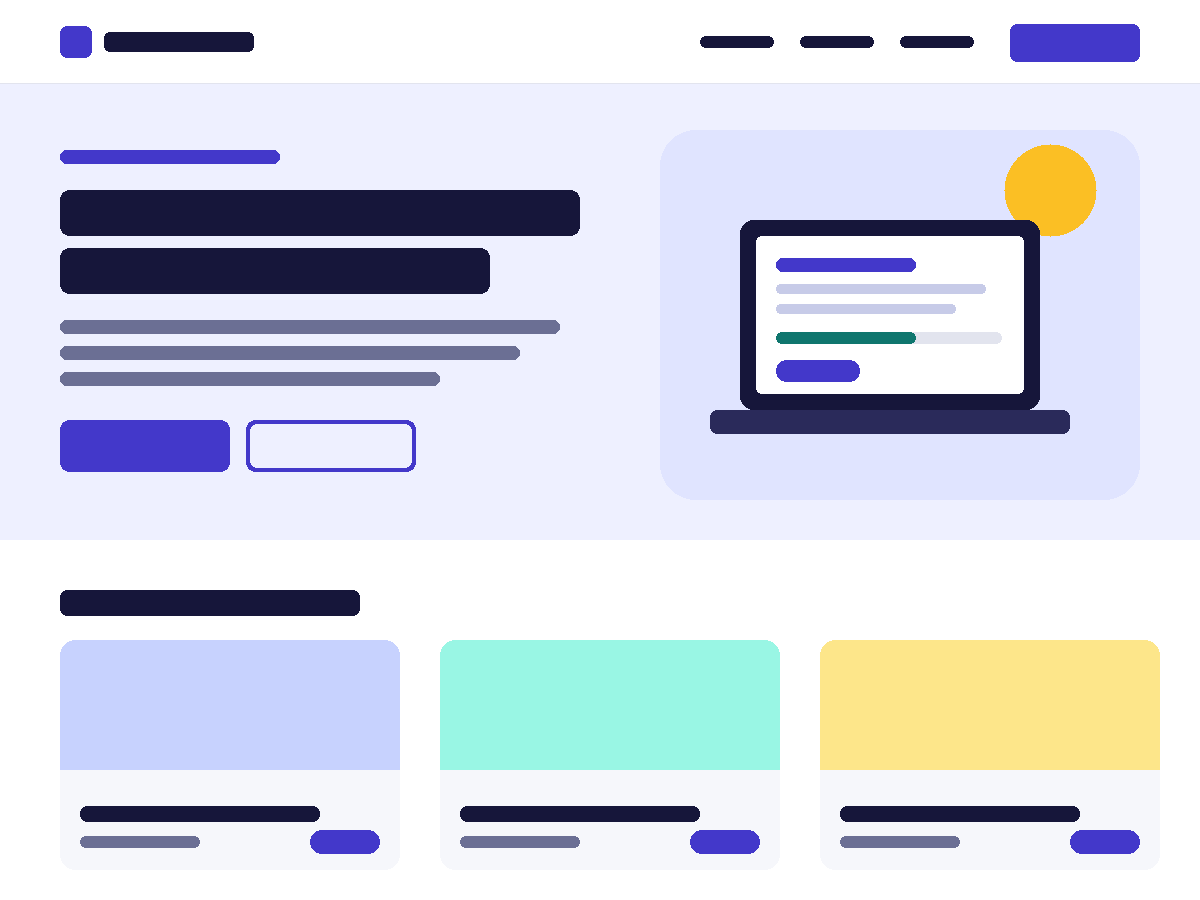
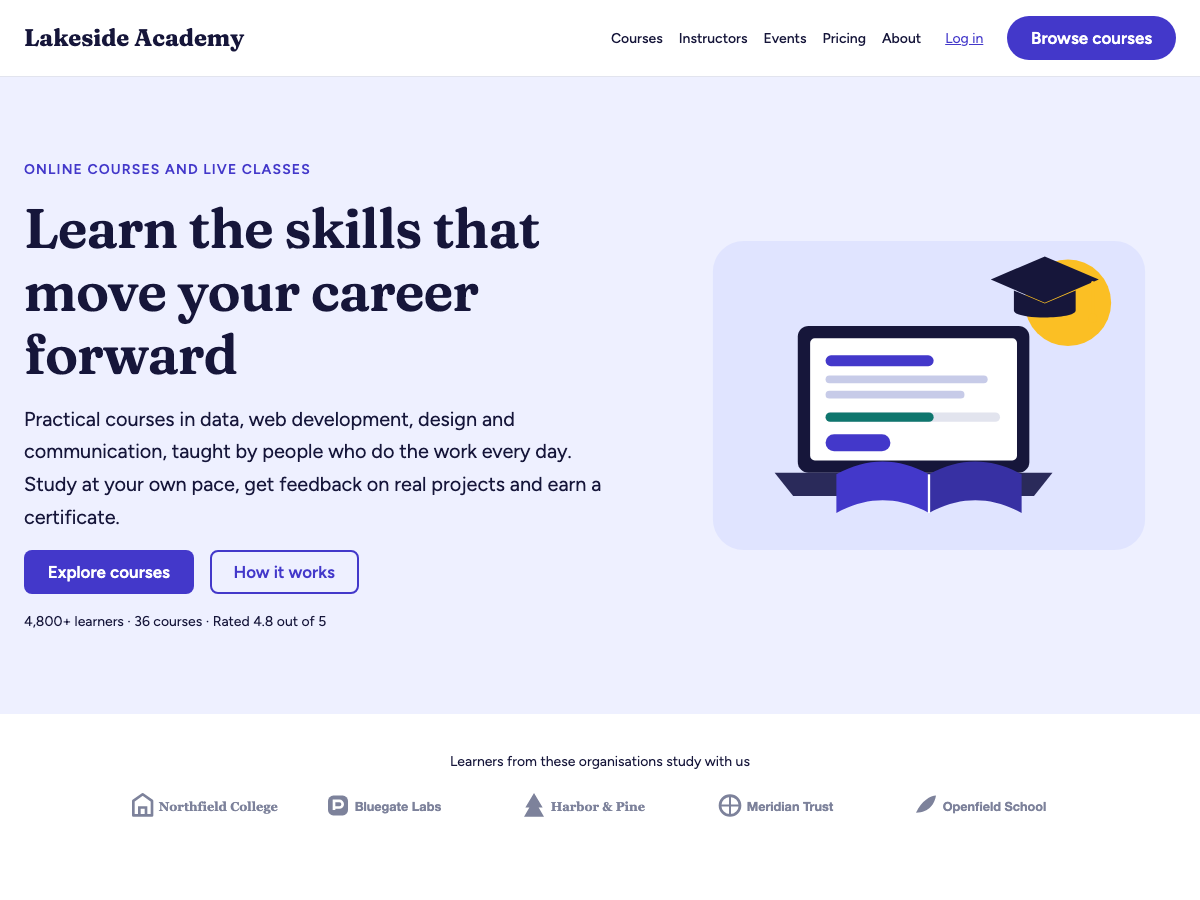
feat(a11y): make the theme accessibility-ready and directory-ready
Add assets/css/global.css (inlined, also loaded in the editor) with
focus outlines for form fields, summaries, menu toggles and the carousel,
and a prefers-reduced-motion rule; the theme itself has no motion. Add
the accessibility statement pattern, an Accessibility section in
readme.txt and the accessibility-ready tag. Course grid cards no longer
repeat a "View course" button on every card (ambiguous link text); the
title is the card link.

docs/REVIEW-CHECKLIST.md records the WordPress.org required and
accessibility-ready guidelines item by item, with the commands used:
Theme Check on the git-archive copy (no required, warning or
recommended results), PHPCS clean, 96/96 contrast pairs, all patterns,
templates and parts valid on 7.1.4, no PHP notices, and Lighthouse on the
academy home (mobile 99/100/100/92, desktop 100/100/100/92; the SEO point
is the meta description, which is plugin territory).

screenshot.png is now a 1200x900 render of the academy home page.
Version 0.2.0.

diff --git a/assets/css/global.css b/assets/css/global.css
@@ -1,0 +1,42 @@
+/**
+ * CampusInterface global stylesheet: accessibility rules theme.json cannot express.
+ *
+ * Links and buttons get their focus ring from theme.json (`:focus-visible` on the
+ * link and button elements). This file covers everything else that can take
+ * keyboard focus, and records the theme's reduced-motion stance. Loaded on the
+ * front end and in the editor; small enough that WordPress inlines it.
+ */
+
+/* Visible focus on every interactive element theme.json does not reach. */
+:where(input, select, textarea, summary, [tabindex]:not([tabindex="-1"])):focus-visible,
+:where(.wp-block-navigation__responsive-container-open, .wp-block-navigation__responsive-container-close):focus-visible {
+	outline: 2px solid var(--wp--preset--color--primary);
+	outline-offset: 2px;
+}
+
+/* Scrollable regions (the course carousel) show where focus is too. */
+:where(.wp-block-post-template):focus-visible {
+	outline: 2px solid var(--wp--preset--color--primary);
+	outline-offset: 4px;
+}
+
+/* On dark and primary bands the ring takes the band's text colour. */
+:where(.is-style-campusinterface-band-dark, .is-style-campusinterface-band-primary) :where(input, select, textarea, summary, [tabindex]:not([tabindex="-1"])):focus-visible {
+	outline-color: currentcolor;
+}
+
+/*
+ * The theme ships no animations or transitions of its own. This rule makes sure
+ * nothing added later (core, plugins, user CSS) moves for people who ask the
+ * system for less motion.
+ */
+@media (prefers-reduced-motion: reduce) {
+	*,
+	*::before,
+	*::after {
+		animation-duration: 0.01ms !important;
+		animation-iteration-count: 1 !important;
+		scroll-behavior: auto !important;
+		transition-duration: 0.01ms !important;
+	}
+}

diff --git a/style.css b/style.css
@@ -4,14 +4,14 @@ Theme URI: https://wpinterface.com/themes/campusinterface/
 Author: WPInterface
 Author URI: https://wpinterface.com
 Description: CampusInterface is a full-site-editing block theme for schools, academies, online course creators and training companies. Everything is styled from theme.json: colour roles, fluid type with two bundled variable fonts, a spacing scale and responsive styles, with Campus, Studio, Kids, Corporate and Dark colour variations, Editorial, Modern and System type sets, and section styles for bands and cards. It pairs with the free Public LMS plugin, whose course, lesson and dashboard templates it styles, and works as a clean school website without it.
-Version: 0.1.0
+Version: 0.2.0
 Requires at least: 6.7
 Tested up to: 7.1
 Requires PHP: 7.4
 License: GNU General Public License v2 or later
 License URI: https://www.gnu.org/licenses/gpl-2.0.html
 Text Domain: campusinterface
-Tags: education, blog, one-column, wide-blocks, block-patterns, block-styles, custom-colors, custom-logo, custom-menu, editor-style, featured-images, full-site-editing, rtl-language-support, style-variations, template-editing, threaded-comments, translation-ready
+Tags: education, blog, accessibility-ready, one-column, wide-blocks, block-patterns, block-styles, custom-colors, custom-logo, custom-menu, editor-style, featured-images, full-site-editing, rtl-language-support, style-variations, template-editing, threaded-comments, translation-ready
 
 CampusInterface WordPress Theme, (C) 2026 WPInterface.
 CampusInterface is distributed under the terms of the GNU GPL v2 or later.

diff --git a/patterns/accessibility-statement.php b/patterns/accessibility-statement.php
@@ -1,0 +1,82 @@
+<?php
+/**
+ * Title: Accessibility statement
+ * Slug: campusinterface/accessibility-statement
+ * Categories: text, campusinterface-about
+ * Post Types: page
+ * Keywords: accessibility, statement, wcag, a11y, policy, legal
+ * Viewport Width: 1000
+ * Description: A starting point for an accessibility statement: commitment, standard, measures, known limitations, feedback and the date of the last review. Edit every section to match your own site before publishing.
+ *
+ * @package CampusInterface
+ * @since 0.2.0
+ */
+
+?>
+<!-- wp:heading -->
+<h2 class="wp-block-heading"><?php esc_html_e( 'Our commitment', 'campusinterface' ); ?></h2>
+<!-- /wp:heading -->
+
+<!-- wp:paragraph -->
+<p><?php esc_html_e( 'We want everyone to be able to learn with us, whatever device they use and however they read, hear, move or think. This statement covers this website and the courses on it.', 'campusinterface' ); ?></p>
+<!-- /wp:paragraph -->
+
+<!-- wp:heading -->
+<h2 class="wp-block-heading"><?php esc_html_e( 'The standard we aim for', 'campusinterface' ); ?></h2>
+<!-- /wp:heading -->
+
+<!-- wp:paragraph -->
+<p><?php esc_html_e( 'We aim to meet the Web Content Accessibility Guidelines (WCAG) 2.2 at level AA. We check new pages and courses against it before they go live.', 'campusinterface' ); ?></p>
+<!-- /wp:paragraph -->
+
+<!-- wp:heading -->
+<h2 class="wp-block-heading"><?php esc_html_e( 'What we do', 'campusinterface' ); ?></h2>
+<!-- /wp:heading -->
+
+<!-- wp:list -->
+<ul class="wp-block-list">
+	<!-- wp:list-item -->
+	<li><?php esc_html_e( 'Every page can be used with a keyboard alone, with a visible focus outline and a link to skip to the main content.', 'campusinterface' ); ?></li>
+	<!-- /wp:list-item -->
+
+	<!-- wp:list-item -->
+	<li><?php esc_html_e( 'Text and buttons meet the AA contrast ratio in every colour scheme we offer, including the dark scheme.', 'campusinterface' ); ?></li>
+	<!-- /wp:list-item -->
+
+	<!-- wp:list-item -->
+	<li><?php esc_html_e( 'Images that carry meaning have text alternatives, and form fields have visible labels.', 'campusinterface' ); ?></li>
+	<!-- /wp:list-item -->
+
+	<!-- wp:list-item -->
+	<li><?php esc_html_e( 'Text resizes to 200% without loss of content, and nothing on the site moves or animates on its own.', 'campusinterface' ); ?></li>
+	<!-- /wp:list-item -->
+
+	<!-- wp:list-item -->
+	<li><?php esc_html_e( 'Course videos have captions and transcripts.', 'campusinterface' ); ?></li>
+	<!-- /wp:list-item -->
+</ul>
+<!-- /wp:list -->
+
+<!-- wp:heading -->
+<h2 class="wp-block-heading"><?php esc_html_e( 'Known limitations', 'campusinterface' ); ?></h2>
+<!-- /wp:heading -->
+
+<!-- wp:paragraph -->
+<p><?php esc_html_e( 'Some older course downloads (PDF worksheets) are not yet fully tagged for screen readers. We are replacing them course by course; ask us for an accessible copy of any file in the meantime.', 'campusinterface' ); ?></p>
+<!-- /wp:paragraph -->
+
+<!-- wp:heading -->
+<h2 class="wp-block-heading"><?php esc_html_e( 'Tell us about a problem', 'campusinterface' ); ?></h2>
+<!-- /wp:heading -->
+
+<!-- wp:paragraph -->
+<p><?php esc_html_e( 'If something on this site does not work for you, tell us what page you were on and what happened. We reply within five working days and will provide the content another way while we fix it.', 'campusinterface' ); ?> <a href="<?php echo esc_url( home_url( '/contact/' ) ); ?>"><?php esc_html_e( 'Contact us about accessibility', 'campusinterface' ); ?></a></p>
+<!-- /wp:paragraph -->
+
+<!-- wp:heading -->
+<h2 class="wp-block-heading"><?php esc_html_e( 'About this statement', 'campusinterface' ); ?></h2>
+<!-- /wp:heading -->
+
+<!-- wp:paragraph -->
+<p><?php esc_html_e( 'This statement was last reviewed on [date]. Replace this sentence with the date of your own review.', 'campusinterface' ); ?></p>
+<!-- /wp:paragraph -->

diff --git a/patterns/course-grid.php b/patterns/course-grid.php
@@ -6,7 +6,7 @@
  * Block Types: core/query
  * Keywords: courses, catalogue, grid, lms, public lms
  * Viewport Width: 1400
- * Description: A heading, a link to the catalogue and a three-column grid of the latest Public LMS courses, as classic cards with level, lesson count, duration, price and an enrol button.
+ * Description: A heading, a link to the catalogue and a three-column grid of the latest Public LMS courses, as classic cards with level, lesson count, duration and price. The course title is the card's only link.
  *
  * @package CampusInterface
  * @since 0.1.0
@@ -62,21 +62,9 @@
 			</div>
 			<!-- /wp:group -->
 
-			<!-- wp:group {"layout":{"type":"flex","flexWrap":"wrap","justifyContent":"space-between"}} -->
-			<div class="wp-block-group">
-				<!-- wp:paragraph {"metadata":{"bindings":{"content":{"source":"publiclms/course-field","args":{"key":"price"}}}},"style":{"typography":{"fontWeight":"700"}},"fontSize":"lg"} -->
-				<p class="has-lg-font-size" style="font-weight:700"></p>
-				<!-- /wp:paragraph -->
-
-				<!-- wp:buttons -->
-				<div class="wp-block-buttons">
-					<!-- wp:button {"metadata":{"bindings":{"url":{"source":"publiclms/course-field","args":{"key":"enroll_url"}},"text":{"source":"publiclms/course-field","args":{"key":"enroll_label"}}}},"className":"is-style-outline"} -->
-					<div class="wp-block-button is-style-outline"><a class="wp-block-button__link wp-element-button"><?php esc_html_e( 'View course', 'campusinterface' ); ?></a></div>
-					<!-- /wp:button -->
-				</div>
-				<!-- /wp:buttons -->
-			</div>
-			<!-- /wp:group -->
+			<!-- wp:paragraph {"metadata":{"bindings":{"content":{"source":"publiclms/course-field","args":{"key":"price"}}}},"style":{"typography":{"fontWeight":"700"}},"fontSize":"lg"} -->
+			<p class="has-lg-font-size" style="font-weight:700"></p>
+			<!-- /wp:paragraph -->
 		<!-- /wp:post-template -->
 
 		<!-- wp:query-no-results -->

diff --git a/functions.php b/functions.php
@@ -461,6 +461,37 @@ function campusinterface_hero_image_priority( $block_content, $block ) {
 add_filter( 'render_block_core/image', 'campusinterface_hero_image_priority', 10, 2 );
 
 /**
+ * Enqueues the global stylesheet: focus rings for form controls and the
+ * reduced-motion rule. Registered with its path so WordPress can inline it.
+ *
+ * @since 0.2.0
+ *
+ * @return void
+ */
+function campusinterface_global_styles() {
+	wp_enqueue_style(
+		'campusinterface-global',
+		get_theme_file_uri( 'assets/css/global.css' ),
+		array(),
+		wp_get_theme()->get( 'Version' )
+	);
+	wp_style_add_data( 'campusinterface-global', 'path', get_theme_file_path( 'assets/css/global.css' ) );
+}
+add_action( 'wp_enqueue_scripts', 'campusinterface_global_styles' );
+
+/**
+ * Loads the global stylesheet in the editor canvas too.
+ *
+ * @since 0.2.0
+ *
+ * @return void
+ */
+function campusinterface_editor_styles() {
+	add_editor_style( 'assets/css/global.css' );
+}
+add_action( 'after_setup_theme', 'campusinterface_editor_styles' );
+
+/**
  * Preloads the body font, the one weight above the fold on every page.
  *
  * @since 0.1.0

diff --git a/docs/REVIEW-CHECKLIST.md b/docs/REVIEW-CHECKLIST.md
@@ -1,0 +1,163 @@
+# WordPress.org theme review checklist
+
+Checked against the [required review guidelines](https://make.wordpress.org/themes/handbook/review/required/)
+and the [accessibility-ready guidelines](https://make.wordpress.org/themes/handbook/review/accessibility/required/)
+on 2026-11-04, for CampusInterface 0.2.0 (phase 1 gate), on the distributable copy that `git archive` builds
+(dev files are `export-ignore`d in `.gitattributes`).
+
+Legend: **Pass**, **N/A** (does not apply to this theme), **Owner** (needs a decision or account action by
+WPInterface before submission).
+
+## How it was checked
+
+| Check | Command | Result |
+|---|---|---|
+| Theme Check | `mkdir -p dist/campusinterface && git archive HEAD \| tar -x -C dist/campusinterface`, then wp-env with `"themes": [ "./dist/campusinterface" ]` in `.wp-env.override.json`, then `npx @wordpress/env@12 run cli wp theme-check run campusinterface` | No REQUIRED, WARNING or RECOMMENDED results; two INFO notes (accessibility-ready tag triggers an accessibility review; one text domain, `campusinterface`) |
+| PHPCS (WordPress-Extra, WordPress-Docs, PHPCompatibilityWP 7.4+) | `composer lint` | Clean |
+| Palette contrast, six palettes × 16 pairs | `composer contrast` | 96 of 96 pass AA; lowest 4.63:1 (Kids, `success` on `surface`) |
+| Block validity | Editor on WordPress 7.1.4: `wp.blocks.parse()` over every theme pattern, template and part | 46 patterns, 16 templates, 10 parts: no invalid or missing blocks |
+| PHP notices | `WP_DEBUG` and `WP_DEBUG_LOG` on; front page, pages on each page template, single post, category, date and search archives, 404 | Nothing logged |
+| Lighthouse 12.8.2, academy home | `npx lighthouse@12 http://localhost:8930/academy-home/` (mobile) and `--preset=desktop` | Mobile: performance 99, accessibility 100, best practices 100, SEO 92. Desktop: 100, 100, 100, 92. The SEO point lost is "no meta description", which is SEO-plugin territory (guideline 6) |
+
+## 1. Licensing and copyright
+
+| Requirement | Status | Notes |
+|---|---|---|
+| GPL-compatible licence, GPLv2 or later recommended | Pass | `style.css` and `readme.txt`: GPLv2 or later |
+| All code, data and images GPL-compatible | Pass | Fonts are OFL 1.1; every image is an original SVG made for the theme, GPLv2 or later |
+| Copyright for the theme itself | Pass | `style.css` and `readme.txt` "Copyright" |
+| Licence, copyright and source for bundled resources, in one file | Pass | `readme.txt` "Resources": Fraunces, Figtree, and the list of all 30 SVGs and `screenshot.png` |
+| Original design, no clones | Pass | |
+| Front-end copyright shows only the user's copyright | Pass | Footers show the site title only; no theme credit or copyright line |
+
+## 2. Privacy
+
+| Requirement | Status | Notes |
+|---|---|---|
+| No tracking or data collection by default | Pass | None. Fonts and images are local; no remote requests (front page references only the site's own host) |
+| Document data use in readme | N/A | The theme collects nothing |
+
+## 3. Accessibility (required for every theme)
+
+| Requirement | Status | Notes |
+|---|---|---|
+| Skip link, first focusable, visible on focus, moves focus to main | Pass | WordPress adds it for block themes when a template has `<main>`; every template has exactly one `<main>` |
+| Visible focus on menus, form fields, submit buttons, text links | Pass | Links and buttons: `:focus-visible` in `theme.json`; fields, summaries, menu toggles and the carousel: `assets/css/global.css`; log-in fields: `assets/css/blocks/loginout.css`; Details summary: `assets/css/blocks/details.css` |
+| Everything reachable and operable by keyboard, on all screen sizes | Pass | Core navigation overlay (keyboard and touch), Details blocks, scroll-snap carousel (tab into each card link). No hover-only controls |
+
+## 4. Code
+
+| Requirement | Status | Notes |
+|---|---|---|
+| No PHP or JavaScript errors, warnings or notices | Pass | See "PHP notices" above. The theme ships no JavaScript |
+| Secure; sanitise input, escape output | Pass | No input handled. All pattern output escaped (`esc_html_e`, `esc_attr__`, `esc_url`); PHPCS `WordPress.Security` clean |
+| No deprecated functions | Pass | PHPCS and Theme Check |
+| Unique prefix (4+ letters) for everything public | Pass | `campusinterface_` functions, `campusinterface-` handles, image size, block style names, pattern categories, pattern slugs |
+
+## 5. Functionality and features
+
+| Requirement | Status | Notes |
+|---|---|---|
+| No preview manipulation, no activation redirects, admin bar untouched | Pass | |
+| Admin notices | N/A | None |
+| No paywalled WordPress features | Pass | |
+| Non-presentational hooks left in place | Pass | |
+| No custom post types, blocks, roles, contact methods, mime types or shortcodes | Pass | Courses come from the Public LMS plugin. The only course-related PHP is a `query_loop_block_query_vars` filter that returns no posts for `plms_course` queries while the plugin is inactive (presentation: avoids blog posts appearing in course grids) |
+| Only design and presentation | Pass | |
+
+## 6. Plugins
+
+| Requirement | Status | Notes |
+|---|---|---|
+| Recommend only WordPress.org plugins | **Owner** | `readme.txt` mentions Public LMS. Before submission it must be live on WordPress.org, or the mention must go |
+| No bundled, auto-installed or auto-downloaded plugins | Pass | |
+| No plugin territory (analytics, SEO, forms, social buttons…) | Pass | The newsletter pattern is a placeholder that asks for a forms plugin's block; the log-in panel uses core's Login/out block |
+
+## 7. Naming, spelling and trademarks
+
+| Requirement | Status | Notes |
+|---|---|---|
+| Name without "WordPress", "Theme" or "Twenty" | Pass | "CampusInterface" |
+| "WordPress" spelled correctly | Pass | |
+| No trademark violations; no WordPress logo | Pass | Partner logos in the logo strip are fictional organisations drawn for the theme |
+
+## 8. Language and internationalisation
+
+| Requirement | Status | Notes |
+|---|---|---|
+| All strings translatable | Pass | Every string is in a PHP pattern with gettext; templates and parts hold no text (they reference patterns) |
+| Text domain is the slug, declared in `style.css` | Pass | `campusinterface` |
+| At most two text domains | Pass | One |
+
+## 9. Files
+
+| Requirement | Status | Notes |
+|---|---|---|
+| Complete, no code meant for other versions | Pass | |
+| No VCS folders, hidden files, zips or disallowed files | Pass | `git archive` output holds only `assets/`, `languages/`, `parts/`, `patterns/`, `styles/`, `templates/`, `functions.php`, `readme.txt`, `screenshot.png`, `style.css`, `theme.json` |
+| One line-ending type | Pass | LF only |
+| All assets bundled; no CDNs or remote fetches | Pass | |
+| `style.css` headers complete | Pass | Theme Name, Author, Description, Version, Requires at least, Tested up to, Requires PHP, License, License URI, Text Domain |
+| Theme URI points to the theme; Author URI about the author | **Owner** | `https://wpinterface.com/themes/campusinterface/` must exist before submission |
+| Tags from the Theme Tag List | Pass | Includes `education` and `accessibility-ready` |
+| Valid `readme.txt`, one Contributors username, short description ≤ 150 characters | Pass / **Owner** | 103 characters. `Contributors: wpinterface` must be the WordPress.org account that submits |
+| Original files for minified ones; no bundled core libraries | Pass | Nothing minified; no jQuery |
+| No images of recognisable children, hate or violence | Pass | Portraits are faceless illustrations of adults |
+| Screenshot ≤ 1200×900, 4:3, not an advert | Pass | 1200×900 render of the academy home page (wp-env, site title "Lakeside Academy") |
+
+## 10. Classic themes
+
+N/A: CampusInterface is a block theme.
+
+## 11. Block themes
+
+| Requirement | Status | Notes |
+|---|---|---|
+| `style.css`, `readme.txt`, `theme.json`, `templates/index.html` | Pass | |
+| Templates complete, with correct closing tags | Pass | Every template and part parses with no invalid blocks |
+
+## 12. Settings pages and onboarding
+
+N/A: no settings pages, options or onboarding.
+
+## 13. Selling, credits, links and spam
+
+| Requirement | Status | Notes |
+|---|---|---|
+| At most one front-facing credit link (Theme or Author URI) | Pass | None |
+| No upselling on the front end; disclose affiliates | Pass | None |
+| No spam in description, readme or starter content | Pass | |
+
+## 14. Author and upload restrictions
+
+**Owner**: one new theme in the queue at a time, disclose all accounts.
+
+## Accessibility-ready guidelines
+
+| Guideline | Status | How |
+|---|---|---|
+| Skip to content link | Pass | Core skip link |
+| Meaningful landmark roles and names | Pass | `<header>`, `<main>`, `<footer>` from template parts and groups; every navigation has an `aria-label` (Main, Footer, Course categories, Academy, Help); course sidebar and archive filters are `<aside>` |
+| Keyboard navigation | Pass | See section 3 |
+| Controls with names, roles and states | Pass | Core blocks only (navigation toggles, Details, buttons, Login/out) |
+| Labelled form fields | Pass | Search blocks keep their label (visually hidden where `showLabel` is false); `wp_login_form()` labels |
+| Meaningful heading structure | Pass | One `h1` per template or full-page pattern (hero, post title or archive title); sections `h2`, cards `h3`; site title is a paragraph |
+| Underlined links in text | Pass | `styles.elements.link` underlines; only navigation and post-title links drop the underline |
+| No ambiguous link text | Pass | No "Read more"; course cards link only from the title. Buttons have distinct labels ("Book a place", "Register", "Reserve your place") |
+| Contrast of text and UI controls | Pass | `composer contrast`, all six palettes; form-field borders use `contrast` |
+| Alternative text | Pass | Every content image has alt text; the ten icons beside headings are decorative and have `alt=""` (WCAG technique H67) |
+| Accessible audio, video and animation | Pass | No media and no animation in the theme; `prefers-reduced-motion` rule in `global.css` |
+| Reflow, resize, text spacing | Pass | Fluid type and grids down to 320px; tested at 375px |
+| No unexpected changes of context | Pass | |
+| No new windows without warning | Pass | No `target="_blank"` |
+| Content on hover or focus accessible | Pass | No hover-revealed content beyond core submenus |
+| Accessibility statement | Pass | `readme.txt` "Accessibility" section, and the `campusinterface/accessibility-statement` pattern for site owners |
+| No inaccessible plugins recommended | Pass | Public LMS is held to the same contract |
+| Screen reader text supported | Pass | Core `.screen-reader-text` styles are present in block themes |
+
+## Before submission (owner)
+
+1. Publish Public LMS on WordPress.org first, or remove the plugin mention from `readme.txt`.
+2. Make the Theme URI page live.
+3. Confirm the `Contributors` username.
+4. Run Theme Check again on the final zip and attach the result to the Trac ticket.

diff --git a/docs/CONTRACTS.md b/docs/CONTRACTS.md
@@ -55,7 +55,7 @@ Rules the theme follows (plugin contract A3 to A5):
 
 | Theme pattern | Uses | Behaviour without the plugin |
 |---|---|---|
-| `campusinterface/course-grid` (3 columns), `course-grid-4`, `course-carousel` | Core Query Loop over `plms_course` with `"namespace":"publiclms/course-query"` (A5.5); Post Featured Image at the `campusinterface-course-card` size (480×270, registered by the theme); Post Title; Paragraphs bound to `publiclms/course-field` keys `level`, `lesson_count`, `duration`, `price`; in the 3-column grid a Button bound to `enroll_url` (url) and `enroll_label` (text), falling back to "View course" | The theme's `query_loop_block_query_vars` filter returns no posts while `plms_course` is unregistered (WordPress would otherwise swap in `post`), so each pattern shows its "New courses are on their way" message |
+| `campusinterface/course-grid` (3 columns), `course-grid-4`, `course-carousel` | Core Query Loop over `plms_course` with `"namespace":"publiclms/course-query"` (A5.5); Post Featured Image at the `campusinterface-course-card` size (480×270, registered by the theme); Post Title; Paragraphs bound to `publiclms/course-field` keys `level`, `lesson_count`, `duration`, `price`; the title is each card's only link (a repeated per-card enrol button would give every card the same link text, which accessibility-ready forbids). `enroll_url` and `enroll_label` are used on the single course hero instead | The theme's `query_loop_block_query_vars` filter returns no posts while `plms_course` is unregistered (WordPress would otherwise swap in `post`), so each pattern shows its "New courses are on their way" message |
 | `campusinterface/category-tiles`, the footer course links | Links to `/course-category/{slug}/` (the plugin's `plms_course_category` rewrite base) for the subjects Data and analytics, Web development, Design, Communication, Business and marketing, Career skills | Links 404 until the plugin and those terms exist; site owners edit them |
 | Hero, CTA and header buttons | `campusinterface_courses_url()`: the `plms_course` archive link, or `/courses/` | Links to `/courses/` |
 
